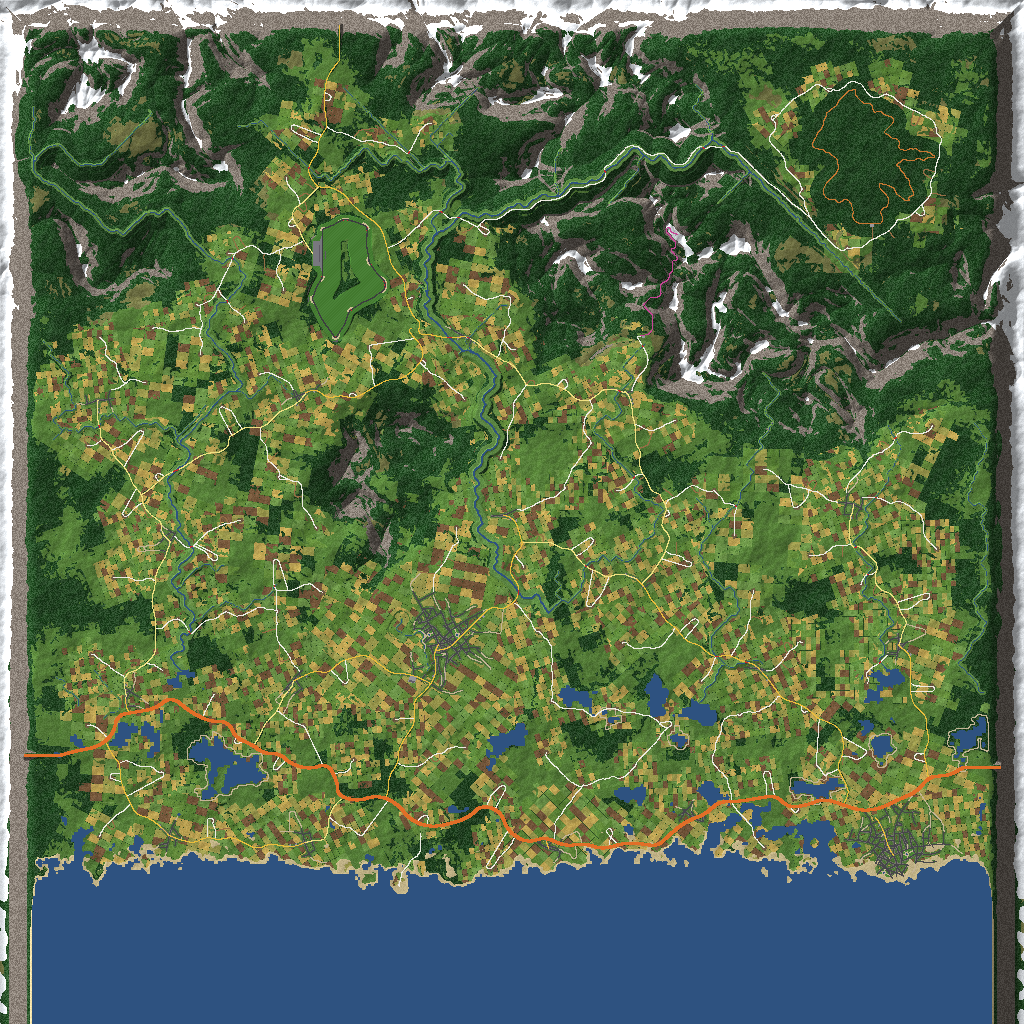
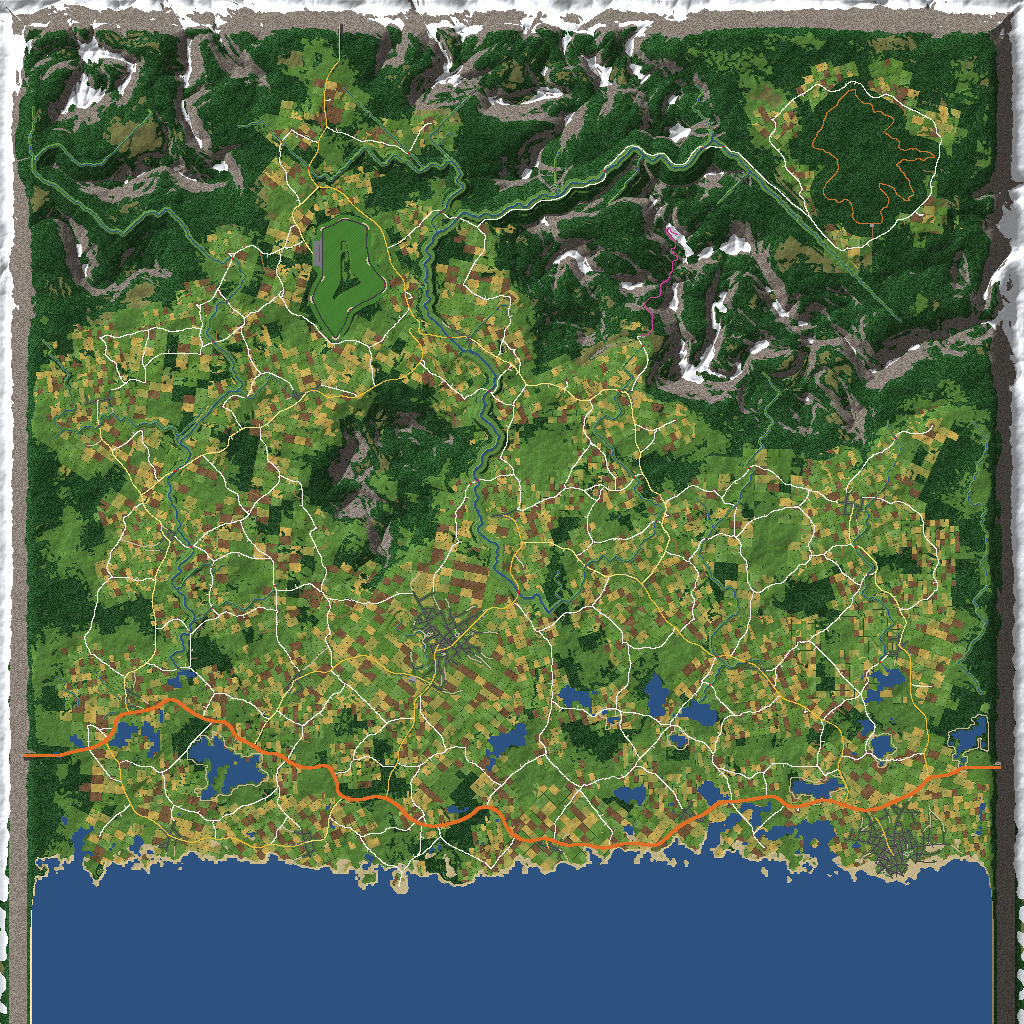
Open World 0.26.0: maps regenerated, plan's status brought up to date (all meshcheck checks pass)
Claude-Session: https://claude.ai/code/session_011prJR7nB7GP5MmdTWUBoCA

Changed region(s): [[0.8125, 0.6562, 0.8438, 0.6875], [0.5625, 0.4688, 0.5938, 0.5], [0.2188, 0.3125, 0.25, 0.3438]]

diff --git a/docs/PLAN.md b/docs/PLAN.md
@@ -1289,15 +1289,18 @@ met its lane a few units short of the farm, leaving a stub. **Done** (`Network.c
 - `meshcheck`: `homes` (mailboxes and houses clear of roads and water, houses at their drives' ends), `backroads` (at most 10 country
   lane dead ends, no through way hooking round), covered bridges counted under `bridges`.
 
-**Status (handoff):** branch `claude/eager-sagan-jmc0fj`. The last full meshcheck (before the fixes below) failed only `faces` (1),
-`signs` (1), `joints` (1), `tucked` (1); `homes` and `backroads` pass. Fixed since, **not yet re-run**: a sign's post kept off the
-benches (`Signs.Free`); two ribbons ending on a paved road no longer joined end to end (`Network.Covered` counts paved roads for
-ribbon ends); `Tuck` also samples a ribbon's own edge; a mailbox that would stand on a road or in water is left out. Still open: one
-face pointing down at (-11566, 2521), in the road mesh's submesh 0, where Farm 8's lane and the link `Farm 8 - Farm 9` meet start to
-start (the new `ToEnd` snapping makes such joints); look with `jview at out.ppm -11566 2521 80` (jview's project now leaves out the
-same files as meshcheck's, so it builds again). Next: run the full meshcheck, fix what is left, regenerate `docs/world.png` and
-`docs/world-labels.png` from `tools/preview`, then open the PR.
+**Status:** finished on branch `claude/intelligent-knuth-y5ts79` (from `claude/eager-sagan-jmc0fj`). Fixed in the last pass: a
+sign's post kept off the benches, and no bench within a sign's whole reach either (a fingerpost's arms reached over one at (3244,
+-6177); `Signs.BenchesClear`); two ribbons ending on a paved road not joined end to end; `Tuck` samples a ribbon's own edge; a
+mailbox on a road or in water left out; the face drawn downwards at (-11566, 2521), where Farm 8's lane and the link `Farm 8 - Farm 9`
+meet start to start at 75 degrees: both take the side halfway round the bend at a joint, so on its inside the verge's outer edge
+swings round faster than the road runs on (w * dphi/dt over L * cos phi; no spreading of the turn over an 8-unit piece keeps 11.5
+out from folding at that bend) and the ribbon folded back. A verge quad that crosses over itself is now left out
+(`RoadMesh.Twisted`); the fold is covered by the ribbon's own layers either side (jview's picture there is unchanged, pixel for
+pixel). Tried first and dropped: refusing such bends as joints, which left the old notch of ground at the outer corner. Full
+meshcheck: **all checks pass** (joints 101, faces 0, signs 0 on a bench, homes and backroads pass). `tools/preview` passes;
+`docs/world.png` and `docs/world-labels.png` regenerated.
 
-Not compiled with `tools/check.sh` in this session (building HalfGripTools there was not allowed): the files it alone covers
+Not compiled with `tools/check.sh` (building HalfGripTools was not allowed in either session): the files it alone covers
 (`Streamer.cs`: the drive's map colour; `WorldScene.cs`: the log line) changed by a line each; meshcheck compiles the rest against
 the game. **Not tested in game.**
